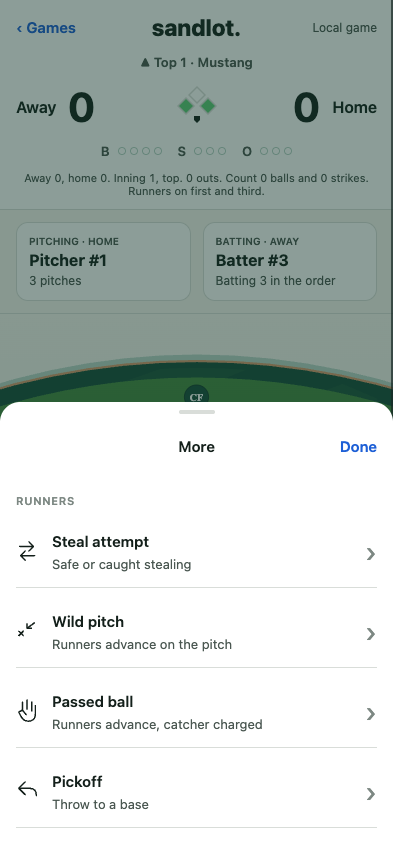
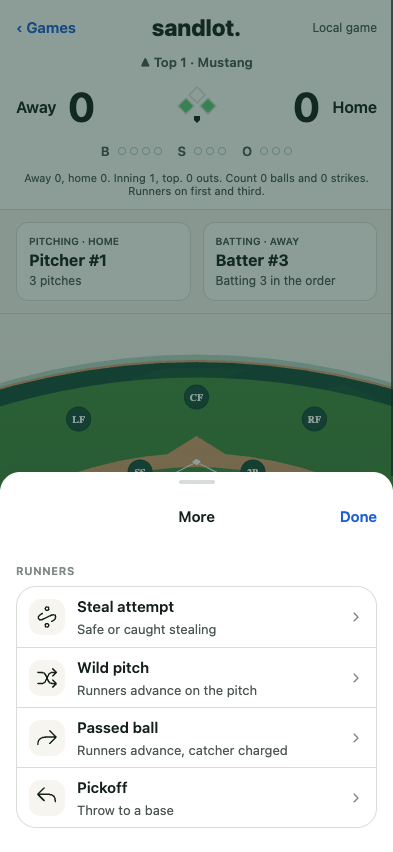
fix(mobile): preserve tap time and match More card

diff --git a/apps/mobile/test/offline-game.test.ts b/apps/mobile/test/offline-game.test.ts
@@ -10,8 +10,61 @@ import { openOfflineGame } from '../src/scoring/offline-game.ts';
 import type { RecordResult } from '../src/scoring/offline-game.ts';
 import type { SqlDatabase } from '../src/scoring/database.ts';
 import { connect } from './database.ts';
+import { beginInPlay, completePlay, outcomeChoices, runnerRows } from '../src/scoring/tap-play.ts';
 
 const boundary = { newId: randomUUID, now: () => '2026-10-24T17:00:00.000Z' };
+
+test('delayed tap plays and save retries preserve the original action time in saved events', async () => {
+  const database = connect(':memory:');
+  let clock = '2026-10-24T17:00:00.000Z';
+  const timedBoundary = {newId: randomUUID, now: () => clock};
+  const session = await openOfflineGame(database, timedBoundary);
+  assert.equal(session.kind, 'ready');
+  if (session.kind !== 'ready') throw new Error('Session must open');
+  const started = await session.record({kind: 'start'});
+  assert.equal(started.kind, 'saved');
+  if (started.kind !== 'saved') throw new Error('Game must start');
+  clock = '2026-10-24T17:01:00.000Z';
+  const draft = beginInPlay(started.game, clock);
+  const choice = outcomeChoices.find((choice) => choice.id === 'single')!;
+  const bunt = outcomeChoices.find((choice) => choice.id === 'sac-bunt')!;
+  const rejectedAction = completePlay({...draft, choice: bunt, step: 'runners', rows: runnerRows(started.game, bunt)});
+  assert.ok(rejectedAction);
+  clock = '2026-10-24T17:01:20.000Z';
+  assert.deepEqual(await session.record(rejectedAction), {kind: 'rejected', code: 'bunting_not_allowed'});
+  const action = completePlay({...draft, choice, step: 'runners', rows: runnerRows(started.game, choice)});
+  assert.ok(action);
+  clock = '2026-10-24T17:01:30.000Z';
+  await database.exec("CREATE TRIGGER reject_timed_outbox BEFORE INSERT ON local_outbox BEGIN SELECT RAISE(ABORT, 'save refused'); END");
+  assert.deepEqual(await session.record(action), {kind: 'unsaved'});
+  await database.exec('DROP TRIGGER reject_timed_outbox');
+  clock = '2026-10-24T17:02:00.000Z';
+  const retried = await session.record(action);
+  assert.equal(retried.kind, 'saved');
+  if (retried.kind !== 'saved') throw new Error('Retry must save');
+  const savedHit = await database.all<{event_json: string}>('SELECT event_json FROM local_events WHERE seq > ? ORDER BY seq', [started.game.revision]);
+  assert.deepEqual(savedHit.map((row) => JSON.parse(row.event_json).at), ['2026-10-24T17:01:00.000Z', '2026-10-24T17:01:00.000Z']);
+
+  clock = '2026-10-24T17:03:00.000Z';
+  const runnerDraft = {kind: 'runner' as const, mode: 'steal' as const, at: clock, game: retried.game,
+    rows: runnerRows(retried.game, null).map((row) => ({...row, to: 'home' as const}))};
+  const rejectedRunnerAction = completePlay(runnerDraft);
+  assert.ok(rejectedRunnerAction);
+  clock = '2026-10-24T17:03:20.000Z';
+  assert.deepEqual(await session.record(rejectedRunnerAction), {kind: 'rejected', code: 'stealing_home_not_allowed'});
+  const runnerAction = completePlay({...runnerDraft, rows: runnerDraft.rows.map((row) => ({...row, to: 2}))});
+  assert.ok(runnerAction);
+  clock = '2026-10-24T17:03:45.000Z';
+  const moved = await session.record(runnerAction);
+  assert.equal(moved.kind, 'saved');
+  if (moved.kind !== 'saved') throw new Error('Runner play must save');
+  const savedRunner = await database.all<{event_json: string}>('SELECT event_json FROM local_events WHERE seq > ?', [retried.game.revision]);
+  assert.deepEqual(savedRunner.map((row) => JSON.parse(row.event_json).at), ['2026-10-24T17:03:00.000Z']);
+  const reopened = await openOfflineGame(database, timedBoundary);
+  assert.equal(reopened.kind, 'ready');
+  if (reopened.kind === 'ready') assert.deepEqual(reopened.game, moved.game);
+  await database.close();
+});
 
 test('an attempted new play cannot be mistaken for an older play with the same generated group ID', async () => {
   const database = connect(':memory:');
@@ -420,11 +473,11 @@ async function scoringSession() {
 
 test('a selected double is one atomic play and whole-play undo survives reopening', async () => {
   const scorer = await scoringSession();
-  await scorer.save({ kind: 'ball_in_play', expectedRevision: scorer.game.revision,
+  await scorer.save({ kind: 'ball_in_play', at: boundary.now(), expectedRevision: scorer.game.revision,
     outcome: 'single', trajectory: null, fielders: ['CF'], advances: [] });
   const before = scorer.game;
   const runner = before.state.bases[1]!.player;
-  await scorer.save({ kind: 'ball_in_play', expectedRevision: before.revision,
+  await scorer.save({ kind: 'ball_in_play', at: boundary.now(), expectedRevision: before.revision,
     outcome: 'double', trajectory: null, fielders: ['RF'], advances: [{ runner, to: 'home' }] });
   assert.equal(scorer.game.state.score.away, 1);
   assert.equal(scorer.game.state.bases[2]?.player.id, 'away-2');
@@ -447,10 +500,10 @@ test('a selected double is one atomic play and whole-play undo survives reopenin
 
 test('an invalid second in-play command, collision, bunt and stale draft append nothing', async () => {
   const scorer = await scoringSession();
-  await scorer.save({ kind: 'ball_in_play', expectedRevision: scorer.game.revision,
+  await scorer.save({ kind: 'ball_in_play', at: boundary.now(), expectedRevision: scorer.game.revision,
     outcome: 'single', trajectory: null, fielders: [], advances: [] });
   const before = scorer.game;
-  const action = { kind: 'ball_in_play' as const, expectedRevision: before.revision,
+  const action = { kind: 'ball_in_play' as const, at: boundary.now(), expectedRevision: before.revision,
     outcome: 'single' as const, trajectory: null, fielders: [], advances: [] };
   assert.deepEqual(await scorer.session.record(action), {kind:'rejected',code:'base_occupied'});
   assert.deepEqual(await scorer.session.record({...action, outcome:'sacrifice_bunt',trajectory:'bunt'}),
@@ -466,14 +519,14 @@ test('an invalid second in-play command, collision, bunt and stale draft append 
 
 test('two aboard lets the scorer choose the runner and multiple runner moves remain one play', async () => {
   const scorer = await scoringSession();
-  await scorer.save({kind:'ball_in_play',expectedRevision:scorer.game.revision,
+  await scorer.save({kind:'ball_in_play',at:boundary.now(),expectedRevision:scorer.game.revision,
     outcome:'double',trajectory:null,fielders:[],advances:[]});
-  await scorer.save({kind:'ball_in_play',expectedRevision:scorer.game.revision,
+  await scorer.save({kind:'ball_in_play',at:boundary.now(),expectedRevision:scorer.game.revision,
     outcome:'single',trajectory:null,fielders:[],advances:[]});
   const before = scorer.game;
   const lead = before.state.bases[2]!.player;
   const trail = before.state.bases[1]!.player;
-  await scorer.save({kind:'runner_play',expectedRevision:before.revision,event:'passed_ball',
+  await scorer.save({kind:'runner_play',at:boundary.now(),expectedRevision:before.revision,event:'passed_ball',
     moves:[{runner:trail,to:2},{runner:lead,to:'home'}]});
   assert.equal(scorer.game.state.score.away, 1);
   assert.equal(scorer.game.state.bases[2]?.player.id, trail.id);
@@ -481,7 +534,7 @@ test('two aboard lets the scorer choose the runner and multiple runner moves rem
   assert.equal(scorer.game.waitingPlays, before.waitingPlays + 1);
   await scorer.save({kind:'undo'});
   assert.deepEqual(scorer.game.state, before.state);
-  await scorer.save({kind:'runner_play',expectedRevision:scorer.game.revision,event:'steal',moves:[{runner:trail,to:'out'}]});
+  await scorer.save({kind:'runner_play',at:boundary.now(),expectedRevision:scorer.game.revision,event:'steal',moves:[{runner:trail,to:'out'}]});
   assert.equal(scorer.game.state.outs, 1);
   assert.equal(scorer.game.state.bases[2]?.player.id, lead.id);
   assert.equal(scorer.game.state.bases[1], undefined);
@@ -492,12 +545,12 @@ for (const outType of ['force', 'non_force'] as const) {
   test(`an explicit ${outType} third out adjudicates the selected crossing from real saved history`, async () => {
     const scorer = await scoringSession();
     for (let count = 0; count < 6; count++) await scorer.save({kind:'pitch',result:'called_strike'});
-    await scorer.save({kind:'ball_in_play',expectedRevision:scorer.game.revision,
+    await scorer.save({kind:'ball_in_play',at:boundary.now(),expectedRevision:scorer.game.revision,
       outcome:'triple',trajectory:null,fielders:[],advances:[]});
-    await scorer.save({kind:'ball_in_play',expectedRevision:scorer.game.revision,
+    await scorer.save({kind:'ball_in_play',at:boundary.now(),expectedRevision:scorer.game.revision,
       outcome:'single',trajectory:null,fielders:[],advances:[]});
     const before = scorer.game;
-    await scorer.save({kind:'ball_in_play',expectedRevision:before.revision,
+    await scorer.save({kind:'ball_in_play',at:boundary.now(),expectedRevision:before.revision,
       outcome:'fielders_choice',trajectory:'ground',fielders:['SS'],advances:[
         {runner:before.state.bases[3]!.player,to:'home'},
         {runner:before.state.bases[1]!.player,to:'out',outType},
@@ -514,7 +567,7 @@ test('real pitcher threshold alerts persist and whole-play undo restores the pre
   const scorer = await scoringSession();
   for (let count = 0; count < 64; count++) await scorer.save({kind:'pitch',result:'foul'});
   const before = scorer.game;
-  await scorer.save({kind:'ball_in_play',expectedRevision:before.revision,
+  await scorer.save({kind:'ball_in_play',at:boundary.now(),expectedRevision:before.revision,
     outcome:'single',trajectory:null,fielders:[],advances:[]});
   assert.ok(scorer.game.state.alerts.some((alert) => alert.kind === 'pitch_count_near_limit'));
   const reopened = await openOfflineGame(scorer.database,boundary);
@@ -527,16 +580,16 @@ test('real pitcher threshold alerts persist and whole-play undo restores the pre
 
 test('a runner play with a failing later move and an in-play outbox failure each roll back the whole play', async () => {
   const scorer = await scoringSession();
-  await scorer.save({kind:'ball_in_play',expectedRevision:scorer.game.revision,
+  await scorer.save({kind:'ball_in_play',at:boundary.now(),expectedRevision:scorer.game.revision,
     outcome:'double',trajectory:null,fielders:[],advances:[]});
-  await scorer.save({kind:'ball_in_play',expectedRevision:scorer.game.revision,
+  await scorer.save({kind:'ball_in_play',at:boundary.now(),expectedRevision:scorer.game.revision,
     outcome:'single',trajectory:null,fielders:[],advances:[]});
   const before = scorer.game;
-  assert.deepEqual(await scorer.session.record({kind:'runner_play',expectedRevision:before.revision,
+  assert.deepEqual(await scorer.session.record({kind:'runner_play',at:boundary.now(),expectedRevision:before.revision,
     event:'wild_pitch',moves:[{runner:before.state.bases[2]!.player,to:3},{runner:before.state.bases[1]!.player,to:3}]}),
     {kind:'rejected',code:'base_occupied'});
   await scorer.database.exec("CREATE TRIGGER reject_play_outbox BEFORE INSERT ON local_outbox BEGIN SELECT RAISE(ABORT, 'disk refused play'); END");
-  assert.deepEqual(await scorer.session.record({kind:'ball_in_play',expectedRevision:before.revision,
+  assert.deepEqual(await scorer.session.record({kind:'ball_in_play',at:boundary.now(),expectedRevision:before.revision,
     outcome:'home_run',trajectory:null,fielders:[],advances:[
       {runner:before.state.bases[1]!.player,to:'home'}, {runner:before.state.bases[2]!.player,to:'home'},
     ]}), {kind:'unsaved'});
@@ -551,7 +604,7 @@ test('an earlier force followed by a non-force third out retains the eligible cr
   for(let count = 0;count < 3;count++) await scorer.save({kind:'pitch',result:'called_strike'});
   for(let count = 0;count < 12;count++) await scorer.save({kind:'pitch',result:'ball'});
   const before = scorer.game;
-  await scorer.save({kind:'ball_in_play',expectedRevision:before.revision,
+  await scorer.save({kind:'ball_in_play',at:boundary.now(),expectedRevision:before.revision,
     outcome:'fielders_choice',trajectory:'ground',fielders:['SS'],advances:[
       {runner:before.state.bases[3]!.player,to:'home'},
       {runner:before.state.bases[1]!.player,to:'out',outType:'force'},
@@ -565,12 +618,12 @@ test('an earlier force followed by a non-force third out retains the eligible cr
 
 test('safe steals, pickoffs and the exact pitch limit use the existing engine commands', async () => {
   const scorer = await scoringSession();
-  await scorer.save({kind:'ball_in_play',expectedRevision:scorer.game.revision,
+  await scorer.save({kind:'ball_in_play',at:boundary.now(),expectedRevision:scorer.game.revision,
     outcome:'single',trajectory:null,fielders:[],advances:[]});
   const runner = scorer.game.state.bases[1]!.player;
-  await scorer.save({kind:'runner_play',expectedRevision:scorer.game.revision,event:'steal',moves:[{runner,to:2}]});
+  await scorer.save({kind:'runner_play',at:boundary.now(),expectedRevision:scorer.game.revision,event:'steal',moves:[{runner,to:2}]});
   assert.equal(scorer.game.state.bases[2]?.player.id,runner.id);
-  await scorer.save({kind:'runner_play',expectedRevision:scorer.game.revision,event:'pickoff',moves:[{runner,to:'out'}]});
+  await scorer.save({kind:'runner_play',at:boundary.now(),expectedRevision:scorer.game.revision,event:'pickoff',moves:[{runner,to:'out'}]});
   assert.equal(scorer.game.state.outs,1);
   assert.deepEqual(scorer.game.state.bases,{});
   for(let count = 1;count < 75;count++) await scorer.save({kind:'pitch',result:'foul'});
@@ -583,9 +636,9 @@ test('safe steals, pickoffs and the exact pitch limit use the existing engine co
 test('a draft from another committed revision returns the fresh game without scoring a different batter', async () => {
   const scorer = await scoringSession();
   const revision = scorer.game.revision;
-  await scorer.save({kind:'ball_in_play',expectedRevision:revision,
+  await scorer.save({kind:'ball_in_play',at:boundary.now(),expectedRevision:revision,
     outcome:'single',trajectory:null,fielders:[],advances:[]});
-  assert.deepEqual(await scorer.session.record({kind:'ball_in_play',expectedRevision:revision,
+  assert.deepEqual(await scorer.session.record({kind:'ball_in_play',at:boundary.now(),expectedRevision:revision,
     outcome:'double',trajectory:null,fielders:[],advances:[]}), {kind:'stale',game:scorer.game});
   const reopened = await openOfflineGame(scorer.database,boundary);
   assert.equal(reopened.kind,'ready');

diff --git a/apps/mobile/src/components/play-sheets.tsx b/apps/mobile/src/components/play-sheets.tsx
@@ -18,9 +18,9 @@ const destinations: {to: Destination; label: string}[] = [
   {to: 'home', label: 'Home'}, {to: 'out', label: 'Out'},
 ];
 const runnerModes: {mode: RunnerMode; title: string; subtitle: string; path: string}[] = [
-  {mode: 'steal', title: 'Steal attempt', subtitle: 'Safe or caught stealing', path: 'M4 8h15m-5-5 5 5-5 5M20 18H5m5-5-5 5 5 5'},
-  {mode: 'wild_pitch', title: 'Wild pitch', subtitle: 'Runners advance on the pitch', path: 'm3 18 5-5m-5 0 5 5m4-8 8-6m-8 1v5h5'},
-  {mode: 'passed_ball', title: 'Passed ball', subtitle: 'Runners advance, catcher charged', path: 'M7 3v9m5-11v10m5-8v10m4-6v10c0 5-4 7-8 7-5 0-8-5-10-10l4-2 4 5'},
+  {mode: 'steal', title: 'Steal attempt', subtitle: 'Safe or caught stealing', path: 'M11 5a2 2 0 1 0 4 0 2 2 0 1 0-4 0M8 10l-3 2c-3 2-1 6 2 5l11-5c4-2 6 2 3 5l-3 2M11 23a2 2 0 1 0 4 0 2 2 0 1 0-4 0'},
+  {mode: 'wild_pitch', title: 'Wild pitch', subtitle: 'Runners advance on the pitch', path: 'M3 8h5c5 0 5 12 10 12h5m-4-4 4 4-4 4M3 20h5c5 0 5-12 10-12h5m-4-4 4 4-4 4'},
+  {mode: 'passed_ball', title: 'Passed ball', subtitle: 'Runners advance, catcher charged', path: 'm16 6 7 7-7 7M23 13H12c-6 0-9 3-9 8'},
   {mode: 'pickoff', title: 'Pickoff', subtitle: 'Throw to a base', path: 'm10 3-7 7 7 7M3 10h12c5 0 7 3 7 8'},
 ];
 const fieldPositions = ['LF', 'CF', 'RF', 'SS', '2B', '3B', '1B', 'P', 'C'] as const satisfies readonly Position[];
@@ -109,12 +109,16 @@ export function PlaySheets({draft, onChange, onClose, record, saving, available,
   if (draft.kind === 'more') return <Sheet open onRequestClose={close} testID="play-more"
     header={<SheetHeader title="More" onCancel={close} cancelLabel="Done" />}>
     <SheetSection label="Runners">
-      {runnerModes.map(({mode, title, subtitle, path}) => <Pressable key={mode} accessibilityRole="button" testID={`more-${mode}`}
-        onPress={() => onChange({kind: 'runner', mode, game: draft.game, rows: runnerRows(draft.game, null)})} style={styles.moreRow}>
-        <Svg width={24} height={28} viewBox="0 0 26 28" accessible={Platform.OS === 'web' ? undefined : false} aria-hidden={Platform.OS === 'web' ? true : undefined}><Path d={path} fill="none" stroke={colors['text/primary']} strokeWidth={1.6} strokeLinecap="round" strokeLinejoin="round" /></Svg>
+      <View style={styles.moreCard}>
+      {runnerModes.map(({mode, title, subtitle, path}, index) => <Pressable key={mode} accessibilityRole="button" testID={`more-${mode}`}
+        onPress={() => onChange({kind: 'runner', at: new Date().toISOString(), mode, game: draft.game, rows: runnerRows(draft.game, null)})} style={[styles.moreRow, index > 0 && styles.moreDivider]}>
+        <View style={styles.moreIcon}>
+          <Svg width={24} height={28} viewBox="0 0 26 28" accessible={Platform.OS === 'web' ? undefined : false} aria-hidden={Platform.OS === 'web' ? true : undefined}><Path d={path} fill="none" stroke={colors['text/primary']} strokeWidth={1.6} strokeLinecap="round" strokeLinejoin="round" /></Svg>
+        </View>
         <View style={styles.moreDescription}><Text style={styles.strong}>{title}</Text><Text style={styles.caption}>{subtitle}</Text></View>
-        <Text style={styles.chevron}>›</Text>
+        <Svg width={16} height={16} viewBox="0 0 24 24" accessible={Platform.OS === 'web' ? undefined : false} aria-hidden={Platform.OS === 'web' ? true : undefined}><Path d="m9 6 6 6-6 6" fill="none" stroke={colors['text/tertiary']} strokeWidth={2} strokeLinecap="round" strokeLinejoin="round" /></Svg>
       </Pressable>)}
+      </View>
     </SheetSection>
   </Sheet>;
   const inPlay = draft.kind === 'in_play';
@@ -198,9 +202,11 @@ const styles = createStyles({
   detailChoice: {minHeight: sizes['tap/min'], justifyContent: 'center', paddingHorizontal: sizes['space/2'], borderWidth: 1, borderColor: colors['border/subtle'], borderRadius: sizes['radius/md']},
   detailSelected: {borderColor: colors['scoreboard/bg'], backgroundColor: colors['surface/page']},
   orderButton: {minHeight: sizes['tap/min'], justifyContent: 'center'},
-  moreRow: {minHeight: 72, flexDirection: 'row', alignItems: 'center', gap: sizes['space/3'], borderBottomWidth: 1, borderBottomColor: colors['border/subtle']},
+  moreCard: {borderWidth: 1, borderColor: colors['border/subtle'], borderRadius: sizes['radius/lg'], overflow: 'hidden'},
+  moreRow: {minHeight: 60, flexDirection: 'row', alignItems: 'center', gap: sizes['space/3'], paddingHorizontal: sizes['space/3']},
+  moreDivider: {borderTopWidth: 1, borderTopColor: colors['border/subtle']},
+  moreIcon: {width: 36, height: 36, alignItems: 'center', justifyContent: 'center', backgroundColor: colors['surface/page'], borderRadius: sizes['radius/md']},
   moreDescription: {flex: 1, gap: sizes['space/1']},
-  chevron: {fontSize: 28, color: colors['text/tertiary']},
   error: {...textStyles.Caption, color: colors['text/warning']},
 });
 const fieldStyles = createStyles({

diff --git a/apps/mobile/src/scoring/tap-play.ts b/apps/mobile/src/scoring/tap-play.ts
@@ -39,17 +39,18 @@ export type RunnerChoice = {
 };
 export type InPlayDraft = {
   kind: 'in_play';
+  at: string;
   step: 'outcome' | 'fielder' | 'runners';
   game: SavedGame;
   choice: OutcomeChoice | null;
   fielder: Position | null;
   rows: RunnerChoice[];
 };
-export type RunnerDraft = { kind: 'runner'; mode: RunnerMode; game: SavedGame; rows: RunnerChoice[] };
+export type RunnerDraft = { kind: 'runner'; at: string; mode: RunnerMode; game: SavedGame; rows: RunnerChoice[] };
 export type PlayDraft = {kind: 'more'; game: SavedGame} | InPlayDraft | RunnerDraft;
 
-export function beginInPlay(game: SavedGame): InPlayDraft {
-  return {kind: 'in_play', step: 'outcome', game, choice: null, fielder: null, rows: []};
+export function beginInPlay(game: SavedGame, at: string): InPlayDraft {
+  return {kind: 'in_play', at, step: 'outcome', game, choice: null, fielder: null, rows: []};
 }
 
 export function runnerRows(game: SavedGame, choice: OutcomeChoice | null): RunnerChoice[] {
@@ -118,7 +119,7 @@ export function completePlay(draft: InPlayDraft | RunnerDraft): DemoAction | nul
   if (draftProblem(draft)) return null;
   if (draft.kind === 'runner') {
     const moves = draft.rows.filter((row) => row.to !== row.from).map(({runner, to}) => ({runner, to}));
-    return moves.length ? {kind: 'runner_play', expectedRevision: draft.game.revision, event: draft.mode, moves} : null;
+    return moves.length ? {kind: 'runner_play', at: draft.at, expectedRevision: draft.game.revision, event: draft.mode, moves} : null;
   }
   if (!draft.choice) return null;
   const safe = draft.rows.filter((row) => row.to !== 'out');
@@ -126,6 +127,6 @@ export function completePlay(draft: InPlayDraft | RunnerDraft): DemoAction | nul
   const advances: Advance[] = [...safe, ...outs].map((row) => row.to === 'out'
     ? {runner: row.runner, to: 'out', outType: row.outType}
     : {runner: row.runner, to: row.to});
-  return {kind: 'ball_in_play', expectedRevision: draft.game.revision, outcome: draft.choice.outcome,
+  return {kind: 'ball_in_play', at: draft.at, expectedRevision: draft.game.revision, outcome: draft.choice.outcome,
     trajectory: draft.choice.trajectory, fielders: draft.fielder ? [draft.fielder] : [], advances};
 }

diff --git a/apps/mobile/src/scoring/offline-game.ts b/apps/mobile/src/scoring/offline-game.ts
@@ -29,9 +29,9 @@ export type DemoAction =
   | { kind: 'start' }
   | { kind: 'pitch'; result: Exclude<PitchResult, 'in_play'> }
   | { kind: 'undo' }
-  | { kind: 'ball_in_play'; expectedRevision: number; outcome: BallInPlayOutcome;
+  | { kind: 'ball_in_play'; at: string; expectedRevision: number; outcome: BallInPlayOutcome;
       trajectory: Trajectory | null; fielders: Position[]; advances: Advance[] }
-  | { kind: 'runner_play'; expectedRevision: number;
+  | { kind: 'runner_play'; at: string; expectedRevision: number;
       event: 'steal' | 'wild_pitch' | 'passed_ball' | 'pickoff';
       moves: { runner: PlayerRef; to: Destination }[] };
 
@@ -285,7 +285,7 @@ export async function openOfflineGame(
         let attempted = false;
         let result: RecordResult = { kind: 'blocked', reason: 'storage' };
         try {
-          const at = boundary.now() as Timestamp;
+          const at = ('at' in action ? action.at : boundary.now()) as Timestamp;
           group = boundary.newId() as GroupId;
           const savedGroup = group;
           await database.transaction(async (connection) => {

diff --git a/apps/mobile/src/app/(game)/score.tsx b/apps/mobile/src/app/(game)/score.tsx
@@ -281,7 +281,7 @@ export default function ScoreScreen() {
       </View>
       <View style={styles.mainButtons}>
         <Pressable testID="pitch-in-play" accessibilityRole="button" disabled={!enabled}
-          accessibilityState={{disabled: !enabled}} onPress={() => setDraft(beginInPlay(game))} style={styles.secondary}>
+          accessibilityState={{disabled: !enabled}} onPress={() => setDraft(beginInPlay(game, new Date().toISOString()))} style={styles.secondary}>
           <Text style={styles.secondaryLabel}>In play</Text>
         </Pressable>
         <Pressable testID="scorer-more" accessibilityRole="button" disabled={!enabled}
